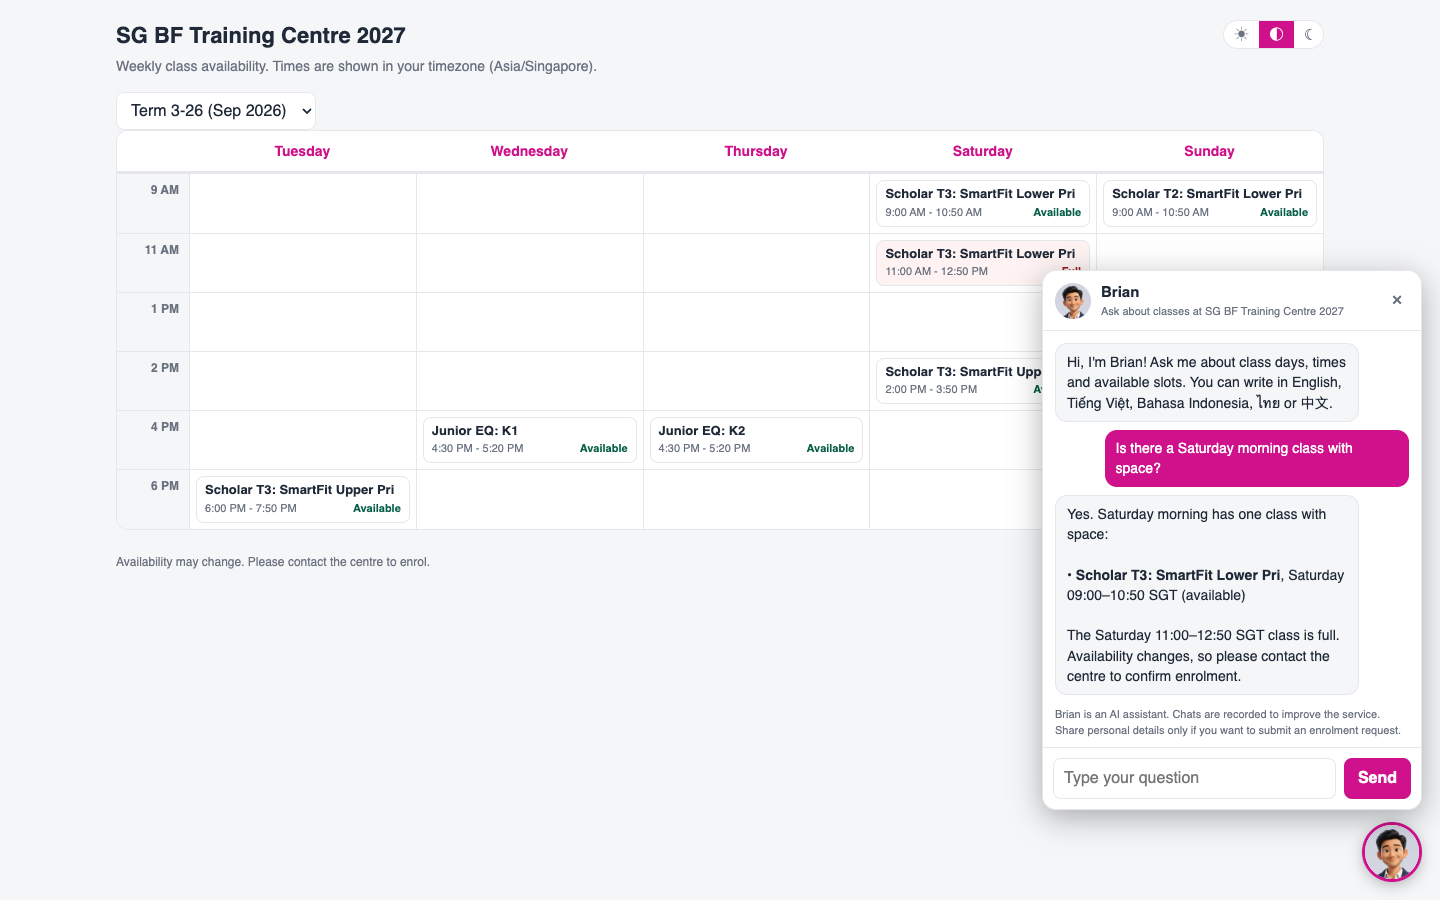
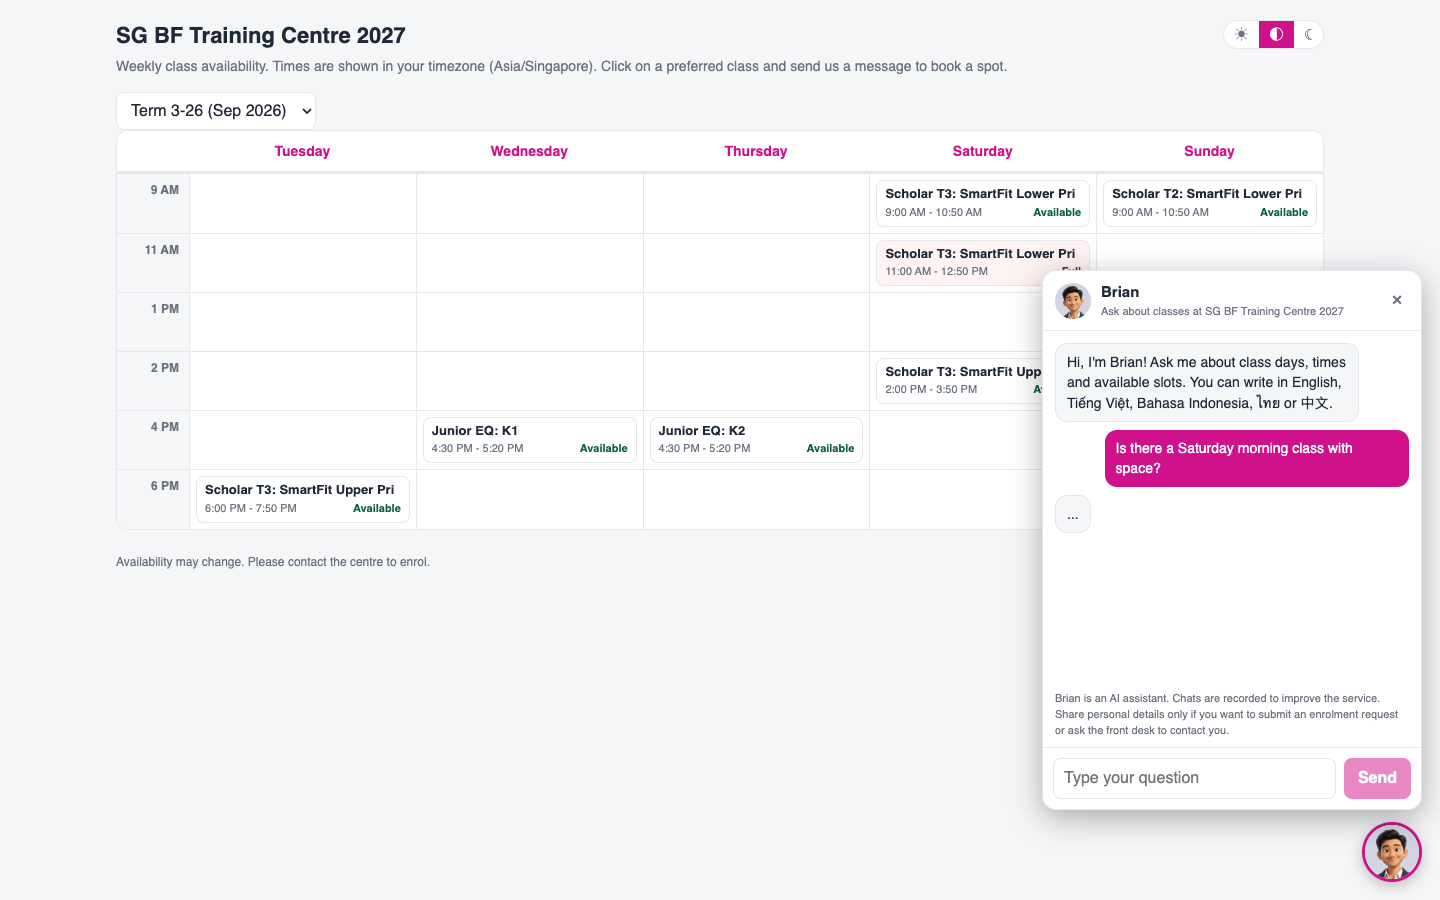
TechGuide: SCH public availability guide, front-desk escalation, email recipients, wording
Brian passes a visitor to the front desk (new, with Contact requests from Brian on the staff screen), enquiry email goes to the trainers and the centre contact email only (no admins in cc, and nobody is emailed if neither exists), new subtitle and thank-you wording, Available/Full only and current plus next term for Brian, class links on the staff list, attendance date-of-birth screenshot. All screenshots re-taken on dev centre 132.

Claude-Session: https://claude.ai/code/session_01PBTsg76pr6zwwkjHegqnZH

Changed region(s): [[0.7188, 0.56, 1.0, 0.9022], [0.4062, 0.0622, 0.6875, 0.0933]]

diff --git a/scripts/video/sch-public.js b/scripts/video/sch-public.js
@@ -48,7 +48,7 @@ makeVideo({
         await c.type('#wl-note', 'Prefers Saturday mornings. (sample)'); await c.sleep(800);
         const s = await c.tag(`return document.querySelector('#wl-send')`, 'sd'); await c.hl(s, 5); await c.glide(s); await c.sleep(700); await c.unhl(); await c.click(s); await c.sleep(3500);
       } },
-    { say: 'The parent gets a thank-you email, and the class trainers, the centre front desk and the centre admins get a New enrolment enquiry email. In Scheduling, open Class Groups, Enrolment Request. Admin roles see every request with the parent, the child, the class and a status: New, Contacted, Converted or Dismissed. Contact the parent, update the status and add a note. Enrolling the child still happens in the usual way.',
+    { say: 'The parent gets a thank-you email, and the class trainers and the centre front desk email get a New enrolment enquiry email. In Scheduling, open Class Groups, Enrolment Request. Admin roles see every request with the parent, the child, the class and a status: New, Contacted, Converted or Dismissed. Contact the parent, update the status and add a note. Enrolling the child still happens in the usual way.',
       run: async c => {
         await c.go('/classrooms/class-groups/availability/'); await c.sleep(1500);
         const m = await c.tag(`return document.querySelector('#class-groups-menu-button')`, 'mn'); await c.click(m); await c.sleep(800);
@@ -57,10 +57,19 @@ makeVideo({
         const t = await c.tag(`return document.querySelector('tbody tr, table')`, 'tb'); await hold(c, t, 4, 3500);
         const f = await c.tag(`return document.querySelector('a[href="?status=new"]')?.parentElement`, 'ft'); if (f) await hold(c, f, 4, 2500);
       } },
-    { say: 'Visitors can also ask Brian, the assistant at the bottom right. Brian only knows this centre\'s classes for the current term and the next term. He answers in English, Vietnamese, Bahasa Indonesia, Thai or Simplified Chinese, and he can help a parent send an enrolment request.',
+    { say: 'Visitors can also ask Brian, the assistant at the bottom right. Brian only knows this centre\'s classes for the current term and the next term, and he talks about Available or Full, never numbers. He answers in English, Vietnamese, Bahasa Indonesia, Thai or Simplified Chinese, and he can help a parent send an enrolment request.',
       run: async c => { await c.go(LINK); await c.sleep(2000); const f = await c.tag(`return document.querySelector('#brian-fab')`, 'fab'); await c.click(f); await c.sleep(1200); await ask(c, 'Is there a Saturday morning class with space?'); await c.sleep(1500); } },
     { say: 'When a parent wants to enrol, Brian asks for the missing details, reads them back, and sends the request only after the parent says yes. The request appears on the Enrolment Request screen with the source Brian. Brian cannot promise a place, and the visitor is told that chats are recorded.',
       run: async c => { await ask(c, 'I would like to enrol my child in the Saturday 2pm class.'); await ask(c, 'Sample Parent, sample.brian@example.com, +65 9123 4567, child Sample Child, age 8. No start date.'); await c.sleep(2500); } },
+    { say: 'Brian can also pass a visitor to the front desk. If someone asks to talk to a real person, Brian asks for their name, an email or phone, and what they need, reads it back, and after a yes tells them the front desk has been notified. These show at the bottom of the Enrolment Request screen, under Contact requests from Brian, with a status and a staff note.',
+      run: async c => {
+        await c.sleep(15000); await ask(c, 'Can I talk to a real person? I have a question about prices.'); await c.sleep(15000);
+        await ask(c, 'Sample Parent, sample.contact@example.com. I want to know the price of the Saturday class.'); await c.sleep(15000);
+        await ask(c, 'Yes, that is correct.'); await c.sleep(2000);
+        await c.go('/classrooms/public-waitlist-requests/'); await c.sleep(2000);
+        await c.page.evaluate(() => { const h = [...document.querySelectorAll('h2,h3,h4')].find(e => /Contact requests from Brian/i.test(e.textContent)); if (h) h.scrollIntoView({ behavior: 'smooth', block: 'start' }); }); await c.sleep(1500);
+        const t = await c.tag(`return [...document.querySelectorAll('h2,h3,h4')].find(e => /Contact requests from Brian/i.test(e.textContent))?.parentElement`, 'cr'); if (t) await hold(c, t, 4, 3500);
+      } },
     { say: 'Only a Super Admin sees two more controls in the Public Link window. Brian chat ON or OFF switches Brian for a centre, and the page itself keeps working when Brian is off. Brian conversations opens the log of every conversation, with the spend against the 30 dollar monthly cap. Chats are recorded, so tell visitors not to type personal details unless they are sending a request.',
       run: async c => {
         await c.page.setCookie({ name: SA.name, value: SA.value, domain: 'scheduling.dev3.powerdigital.sg', path: '/', secure: true });

diff --git a/scripts/capture/sp6.js b/scripts/capture/sp6.js
@@ -1,0 +1,40 @@
+// SCH guide, part 3 (dev, centre 132): Brian passes a visitor to the front desk, staff list incl. "Contact requests from Brian", attendance with date of birth.
+const puppeteer = require('puppeteer-core');
+const fs = require('fs');
+const { openSch, goSch } = require('./schlib');
+const { mark, clear } = require('./lib');
+const OUT = process.argv[2] || 'out/sp';
+const L = fs.readFileSync(__dirname + '/sch_link.txt', 'utf8').trim();
+const sleep = ms => new Promise(r => setTimeout(r, ms));
+(async () => {
+  const browser = await puppeteer.launch({ executablePath: '/Applications/Google Chrome.app/Contents/MacOS/Google Chrome', headless: 'new', args: ['--hide-scrollbars'] });
+  const c = await browser.createBrowserContext(); const q = await c.newPage(); await q.setViewport({ width: 1440, height: 900 });
+  await q.emulateMediaFeatures([{ name: 'prefers-color-scheme', value: 'light' }]); await q.emulateTimezone('Asia/Singapore');
+  await q.goto(L, { waitUntil: 'networkidle2' }); await sleep(1000); await q.click('#brian-fab'); await sleep(800);
+  const ask = async t => { await q.type('#bin', t, { delay: 10 }); await q.click('#bsend'); await sleep(2500); for (let i = 0; i < 60; i++) { const busy = await q.evaluate(() => /(^|\n)\.\.\.(\n|$)/.test(document.querySelector('#brian-panel').innerText) || document.querySelector('#bsend').disabled); if (!busy) break; await sleep(1000); } await sleep(800); };
+  await ask('Can I talk to a real person? I have a question about prices.');
+  await q.screenshot({ path: `${OUT}/pc-1.png` });
+  await sleep(13000);
+  await ask('Sample Parent, sample.contact@example.com. I want to know the price of the Saturday class.');
+  await q.screenshot({ path: `${OUT}/pc-2.png` });
+  await sleep(13000);
+  await ask('Yes, that is correct.'); await sleep(1500);
+  await q.screenshot({ path: `${OUT}/pc-3.png` });
+  console.log((await q.evaluate(() => document.querySelector('#brian-panel').innerText)).slice(-600));
+  await browser.close();
+  const { browser: sb, page } = await openSch({ width: 1440, height: 900 });
+  await goSch(page, '/classrooms/public-waitlist-requests/'); await sleep(1500);
+  const mask = () => page.evaluate(() => {
+    const map = { 'DEV Check': 'Sample Parent A', 'dev.check@example.com': 'parent.a@example.com', 'Linh Nguyen': 'Sample Parent B', 'linh.qa@example.com': 'parent.b@example.com', 'QA Parent': 'Sample Parent C', 'qa.parent@example.com': 'parent.c@example.com', 'DEV Child': 'Child A', 'Minh': 'Child B', 'QA Child': 'Child C', '+84987654321': '+6590000002', '+6591234567': '+6590000001' };
+    const w = document.createTreeWalker(document.body, NodeFilter.SHOW_TEXT); let n; while ((n = w.nextNode())) { let t = n.nodeValue; for (const k of Object.keys(map)) t = t.split(k).join(map[k]); n.nodeValue = t; }
+    document.querySelectorAll('a[href^="mailto:"]').forEach(a => { a.removeAttribute('href'); });
+  });
+  await mask(); await page.screenshot({ path: `${OUT}/pc-4.png` });
+  await page.evaluate(() => { const h = [...document.querySelectorAll('h2,h3,h4')].find(e => /Contact requests from Brian/i.test(e.textContent)); if (h) { h.scrollIntoView({ block: 'start' }); h.setAttribute('data-tg', '1'); } window.scrollBy(0, -20); });
+  await sleep(400); await mark(page, '[data-tg]', { pad: 6 }); await page.screenshot({ path: `${OUT}/pc-5.png` }); await clear(page);
+  // attendance with DOB: class group 1320
+  await goSch(page, '/classrooms/class-group/1320/'); await sleep(2000);
+  await page.screenshot({ path: `${OUT}/pc-6.png` });
+  console.log(await page.evaluate(() => [...document.querySelectorAll('a,button')].filter(e => e.offsetParent && /attend|session/i.test(e.textContent)).map(e => e.tagName + ' ' + (e.getAttribute('href') || e.id) + ' ' + e.textContent.trim().replace(/\s+/g, ' ').slice(0, 40)).slice(0, 15)));
+  await sb.close();
+})().catch(e => { console.error(e); process.exit(1); });

diff --git a/scripts/capture/sp7.js b/scripts/capture/sp7.js
@@ -1,0 +1,23 @@
+// SCH guide: attendance window with date of birth (dev group 1320, centre 132) and the Brian contact requests list with names masked.
+const { openSch, goSch } = require('./schlib');
+const { mark, clear } = require('./lib');
+const OUT = process.argv[2] || 'out/sp';
+const sleep = ms => new Promise(r => setTimeout(r, ms));
+const maskNames = (page, map) => page.evaluate(map => { const w = document.createTreeWalker(document.body, NodeFilter.SHOW_TEXT); let n; while ((n = w.nextNode())) { let t = n.nodeValue; for (const k of Object.keys(map)) t = t.split(k).join(map[k]); if (t !== n.nodeValue) n.nodeValue = t; } document.querySelectorAll('a[href^="mailto:"]').forEach(a => a.removeAttribute('href')); }, map);
+(async () => {
+  const { browser, page } = await openSch({ width: 1440, height: 900 });
+  await goSch(page, '/classrooms/class-group/1320/'); await sleep(2000);
+  await page.mouse.click(653, 660);
+  await sleep(2000);
+  await maskNames(page, { 'Elena Hassan': 'Student A', 'Rohan Chen': 'Student B', 'Darren Koh': 'Student C', 'Arjun Yeo': 'Student D' });
+  console.log((await page.evaluate(() => document.body.innerText)).slice(0, 700));
+  await page.screenshot({ path: `${OUT}/pc-6.png` });
+  await page.evaluate(() => { const e = [...document.querySelectorAll('*')].find(x => x.children.length === 0 && /^DOB/.test(x.textContent.trim()) && x.offsetParent); if (e) e.setAttribute('data-tg', '1'); });
+  await mark(page, '[data-tg]', { pad: 5 }); await page.screenshot({ path: `${OUT}/pc-7.png` }); await clear(page);
+  await goSch(page, '/classrooms/public-waitlist-requests/'); await sleep(1500);
+  await maskNames(page, { 'DEV Check': 'Sample Parent A', 'dev.check@example.com': 'parent.a@example.com', 'Linh Nguyen': 'Sample Parent B', 'linh.qa@example.com': 'parent.b@example.com', 'QA Parent': 'Sample Parent C', 'qa.parent@example.com': 'parent.c@example.com', 'DEV Child': 'Child A', 'Minh': 'Child B', 'QA Child': 'Child C', '+84987654321': '+6590000002', '+6591234567': '+6590000001', 'Linh Pham': 'Sample Parent D', 'linh.fd.qa@example.com': 'parent.d@example.com' });
+  await page.screenshot({ path: `${OUT}/pc-4.png` });
+  await page.evaluate(() => { const h = [...document.querySelectorAll('h2,h3,h4')].find(e => /Contact requests from Brian/i.test(e.textContent)); h.scrollIntoView({ block: 'start' }); h.setAttribute('data-tg', '1'); window.scrollBy(0, -20); });
+  await sleep(400); await mark(page, '[data-tg]', { pad: 6 }); await page.screenshot({ path: `${OUT}/pc-5.png` }); await clear(page);
+  await browser.close();
+})().catch(e => { console.error(e); process.exit(1); });

diff --git a/docs/BrainFit HQ/Scheduling/public-availability.md b/docs/BrainFit HQ/Scheduling/public-availability.md
@@ -45,6 +45,7 @@ Anyone who has the link can open the page. There is no login. Treat the link lik
 - **Timezone:** times are shown in the visitor's own timezone, so a class can appear on the neighbouring day for someone far away.
 - **No personal data:** no student names, no teacher names and no ids appear on the page.
 - On a computer the page is a weekly calendar. On a phone it is a list by day.
+- Under the centre name the page says: **Click on a preferred class and send us a message to book a spot.**
 
 ![What a visitor sees on a computer](./img/sch-public-3.png)
 ![The same page on a phone](./img/sch-public-4.png)
@@ -71,7 +72,7 @@ and click **Submit**.
 ![The Interest to Enroll pop-up, filled in with sample details](./img/sch-public-7.png)
 ![The country picker for the phone number](./img/sch-public-8.png)
 
-The small print says **This is an enrolment request, not a confirmed place.** Nothing is held for the child and nothing is created in HQ. The centre follows up with the parent and enrols them in the usual way. After Submit, the parent sees **Thank you for your interest. The centre will contact you.**
+The small print says **This is an enrolment request, not a confirmed place.** Nothing is held for the child and nothing is created in HQ. The centre follows up with the parent and enrols them in the usual way. After Submit, the parent sees **Thank you for your interest. Someone from the centre will be contacting you soon.**
 
 ![The thank-you message after Submit](./img/sch-public-9.png)
 
@@ -83,11 +84,11 @@ Every request sends two emails.
 
 ![The thank-you email the parent receives (sample)](./img/sch-public-10.png)
 
-**To the centre:** an email titled **New enrolment enquiry - (class, time)**. It goes to the class's trainers and to the centre's front desk email (the centre contact email from HQ, once it is filled in), with the centre admins in cc. It lists the class, parent, phone, email, child, preferred start date and message, and asks the team to follow up with the parent.
+**To the centre:** an email titled **New enrolment enquiry - (class, time)**. It goes to the class group's **trainers** and to the centre's **contact email** (the front desk) from HQ, once it is filled in. Centre admins are **not** copied. It lists the class, parent, phone, email, child, preferred start date and message, and asks the team to follow up with the parent. If the centre has no contact email in HQ and the class has no trainer email, **nobody is emailed**. The request is still saved, and the Enrolment Request screen says no email was sent, so someone must check that screen.
 
 ![The enquiry email the centre receives (sample)](./img/sch-public-11.png)
 
-Both emails end with a footer that shows the centre name, address, email and phone **when HQ has them**. Centre admins fill these in on the Brain HQ **Centre contact** page. Until a centre has filled them in, its emails show only what exists. Most centres are still empty.
+Both emails end with a footer that shows the centre name, address, email and phone **when HQ has them**. Centre admins fill these in on the Brain HQ **Centre contact** page. Until a centre has filled them in, its emails show only what exists, and the front desk gets no enquiry email. Most centres are still empty, so ask your centre admin to fill in **Centre contact** first.
 
 ## 5. Staff: the Enrolment Request screen
 
@@ -98,6 +99,8 @@ Open **Class Groups → Enrolment Request** (the globe icon). It is shown only t
 The **Public enrolment requests** page lists every request for the selected centre: when it came in and whether it came from the **Form** or from **Brian**, the class, the parent's contact, the child (with the preferred start date and message, if any), and a status. Use the filters **All, New, Contacted, Converted** and **Dismissed** to focus.
 
 ![The Public enrolment requests page](./img/sch-public-13.png)
+
+The class on each row is a link to its class group. Each row also says whether the trainer was emailed.
 
 For each request:
 
@@ -111,7 +114,7 @@ Enrolling the child still happens in the usual way. The page does not enrol anyo
 
 Visitors open Brian with the round button at the bottom right of the page.
 
-- Brian only knows **this centre's classes for the current term and the next term**. It cannot see names and cannot promise a place. It tells the visitor to contact the centre.
+- Brian only knows **this centre's classes for the current term and the next term**. He talks about **Available** or **Full** only, never numbers. He cannot see names and cannot promise a place. He tells the visitor to contact the centre.
 - Brian answers in **English, Vietnamese, Bahasa Indonesia, Thai or Simplified Chinese**, in the language the visitor writes in.
 - A question can be up to **300 characters**. There are limits on how many questions one visitor can ask in a short time.
 - The chat tells visitors that **chats are recorded** and not to share personal details unless they want to send an enrolment request.
@@ -122,6 +125,15 @@ Visitors open Brian with the round button at the bottom right of the page.
 **Brian can also help a parent send an enrolment request.** Brian asks for the parent's name, email, phone, the child's name and age, and an optional preferred start date. He then **reads the details back** and sends the request **only after the parent says yes**. The request appears on the Enrolment Request screen with the source **Brian**, and the same two emails are sent.
 
 ![Brian reads the details back before sending](./img/sch-public-16.png)
+
+**Brian can pass a visitor to the front desk.** If a visitor asks to talk to a person, for example "Can I talk to a real person? I have a question about prices.", Brian asks for their name, an email or phone, and what they need. He reads it back and, after the visitor says yes, tells them the front desk has been notified. The centre's contact email gets an email. Brian does not promise when someone will reply.
+
+![Brian offers to pass a question to the front desk](./img/sch-public-19.png)
+![Brian confirms the front desk has been notified](./img/sch-public-20.png)
+
+These appear at the bottom of the Enrolment Request screen, under **Contact requests from Brian**. Each has the visitor's contact details, what they asked, a status (**New**, **Handled** or **Dismissed**) and a staff note. If the centre has no contact email in HQ, no email is sent, and the entry says **Email not sent**.
+
+![Contact requests from Brian on the Enrolment Request screen](./img/sch-public-21.png)
 
 If Brian cannot answer (for example it is switched off, or the monthly limit is reached), the page still shows the availability.
 
@@ -139,9 +151,11 @@ Two more controls appear in the Public link window for a Super Admin:
 
 The attendance lists (the calendar session pop-up and the class group attendance window) now show each child's **date of birth and age** under the name.
 
+![Attendance window with each child's date of birth and age](./img/sch-public-22.png)
+
 ## Safety
 
 - The link is a secret address, not a login. Anyone who has it can see the page. If it spreads further than you wanted, use **New link** and update every place it was posted.
 - The page shows only class names, times and Available or Full. Never put personal details in a class name.
-- A request holds a parent's name, email, phone and child's name. Only staff who need to follow it up should open the Enrolment Request screen, and the emails should be handled like any other parent contact.
+- A request holds a parent's name, email, phone and child's name. Only staff who need to follow it up should open the Enrolment Request screen, and the emails should be handled like any other parent contact. Make sure the centre's **contact email** in HQ is filled in and watched by someone, because it is what the front desk receives.
 - Brian's chats are recorded. Tell visitors not to type personal details into the chat unless they are sending an enrolment request.
